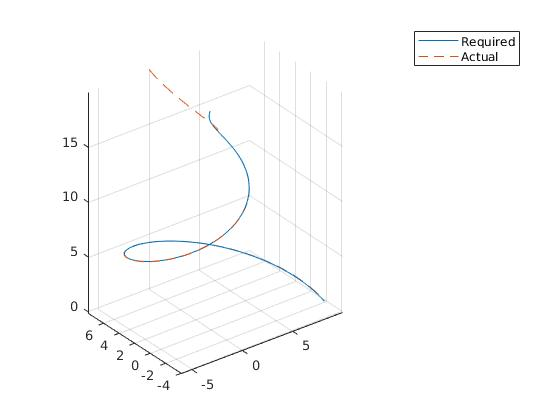
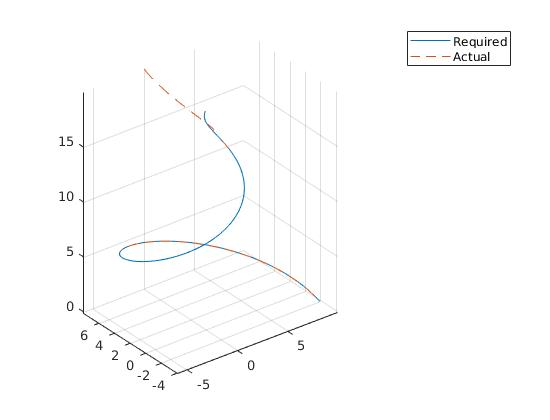
Update MPC conical spiral tracking params.

diff --git a/workspace/assignments/08-model-predictive-control/MATLAB/01-conical-spiral-tracking/linear_mpc_tracking.m b/workspace/assignments/08-model-predictive-control/MATLAB/01-conical-spiral-tracking/linear_mpc_tracking.m
@@ -8,10 +8,10 @@ T     = 40;
 dt    = 0.2;                 % time interval
 K     = 20;                  % prediction horizon
 
-w_pos = 50.0;                % position tracking weight
-w_vel =  2.0;                % velocity trackng weight
-w_acc =  2.0;                % acceleration tracking weight
-w_jer =  0.5;                % control strength regulation
+w_pos = 100.0;               % position tracking weight
+w_vel =   1.0;               % velocity trackng weight
+w_acc =   1.0;               % acceleration tracking weight
+w_jer =   1.0;               % control strength regulation
 
 vel_limits = [
     [-6, +6];
@@ -35,6 +35,8 @@ jer_limits = [
 % output trajectory:
 N = (T / dt);
 state_index = 1;
+
+timestamps = zeros(N, 1);
 
 P_act = zeros(N, 3);
 V_act = zeros(N, 3);
@@ -115,6 +117,8 @@ for t = 0.2:dt:40
     end
 
     % log the states:
+    timestamps(state_index) = state_index;
+
     P_act(state_index, :) = p_0;
     V_act(state_index, :) = v_0;
     A_act(state_index, :) = a_0;
@@ -141,6 +145,7 @@ figure;
 err_pos = vecnorm(P_req - P_act, 2, 2);
 err_vel = vecnorm(V_req - V_act, 2, 2);
 err_acc = vecnorm(A_req - A_act, 2, 2);
-plot([err_pos, err_vel, err_acc]);
+plot(timestamps, [err_pos, err_vel, err_acc]);
 grid on;
+xlabel('t(s)');
 legend('Pos. Err.','Vel. Err.','Acc. Err.');

diff --git a/workspace/assignments/08-model-predictive-control/MATLAB/01-conical-spiral-tracking/README.md b/workspace/assignments/08-model-predictive-control/MATLAB/01-conical-spiral-tracking/README.md
@@ -25,10 +25,10 @@ Result Trajectory          |Tracking Errors
 |:----------:|:---------------------------------------------:|:-------:|
 |     dt     |            MPC prediction interval            |   0.2   |
 |      K     |             MPC prediction horizon            |    20   |
-|    wPos    |   objective function weight, position error   |   50.0  |
-|    wVel    |   objective function weight, velocity error   |   2.0   |
-|    wAcc    | objective function weight, acceleration error |   2.0   |
-|    wJer    |   objective function weight, jerk magnitude   |   0.5   |
+|    wPos    |   objective function weight, position error   |  100.0  |
+|    wVel    |   objective function weight, velocity error   |   1.0   |
+|    wAcc    | objective function weight, acceleration error |   1.0   |
+|    wJer    |   objective function weight, jerk magnitude   |   1.0   |
 | vxy_limits |              velocity limits, X-Y             | [-6,+6] |
 | axy_limits |            acceleration limits, X-Y           | [-3,+3] |
 | jxy_limits |                jerk limits, X-Y               | [-3,+3] |
